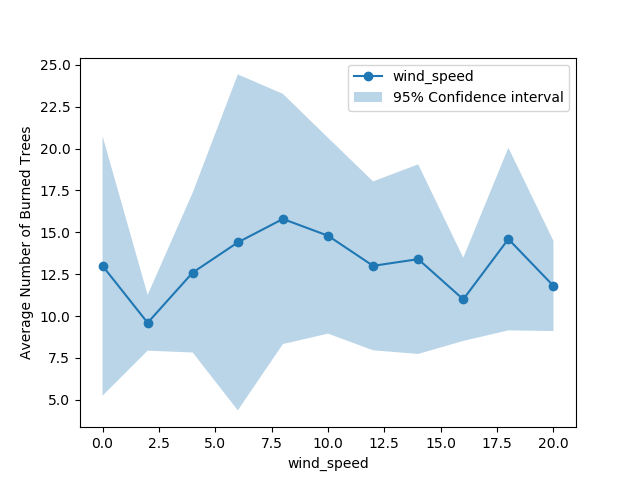
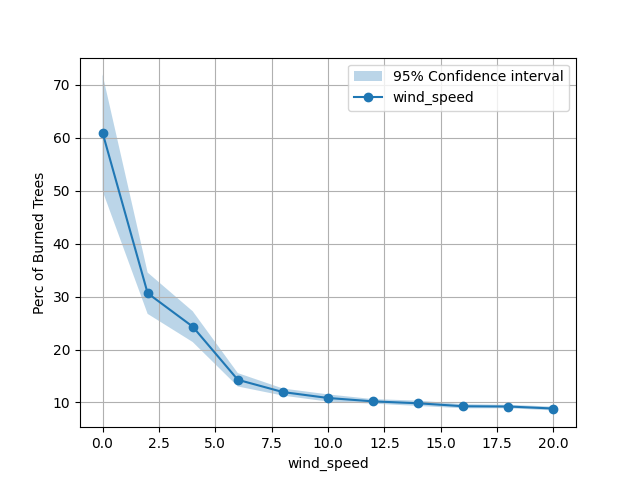
some code cleanup + plots

diff --git a/grid.py b/grid.py
@@ -3,8 +3,8 @@ import random
 import math
 
 class Grid:
+    '''Grid Class - has functions for parameters and probability calculations'''
     def __init__(self, rows, cols, init_params=True):
-        
         self.rows = rows
         self.cols = cols
         self.burned_trees = 0
@@ -12,7 +12,7 @@ class Grid:
         
         # intialize parameters
         if init_params==True:
-            self.params = self.init_params( )
+            self.params = self.init_params()
         
         # auxiliary information grids
         self.trees = self.init_trees()
@@ -26,6 +26,7 @@ class Grid:
     ## PARAMETERS ##
     
     def init_params(self):
+        '''sets default parameters for the grid'''
         params = {}
 
         # Vegetation parameters
@@ -35,13 +36,13 @@ class Grid:
 
         # Wind parameters
         params['wind_enabled'] = True
-        params['wind_speed'] = 10
+        params['wind_speed'] = 5
         params['wind_angle'] = 180
         params['wind_c1'] = 0.045
         params['wind_c2'] = 0.131
         
         # Density parameters
-        params['grid_density'] = 0.4
+        params['grid_density'] = 0.9
         params['density_enabled'] = True
 
         # Altitude parameters
@@ -53,8 +54,8 @@ class Grid:
         params['peak_slope'] = 0.1
         params['alpha'] = 0.078 
         
-        # Probability parameters
-        params['tree_burn_prob'] = 1 # base burn probability
+        # Probability parameters - from the ref paper
+        params['tree_burn_prob'] = 0.58 # base burn probability
         params['prob_delta_tree1'] = -0.3 # probability delta for trees of type 1
         params['prob_delta_tree2'] = 0.4 # p. d. for trees of type 2
         params['prob_delta_dens1'] = -0.3 # p. d. for density type 1
@@ -64,14 +65,15 @@ class Grid:
         return params
     
     def set_params(self, key, value):
+        '''used to change default parameters'''
         self.params[key] = value
         return
 
     ## MAIN GRID FOR SIMULATIONS ##
     
     def init_grid(self):
-        # states: 1- empty; 2- tree; 3- burning; 4- burnt
-        # forest = [[2 for _ in range(self.cols)] for _ in range(self.rows)]
+        '''initializes the grid with default/set density'''
+
         grid_density = self.params['grid_density']
         edge = lambda row,col : row == 0 or col == 0 or row == self.rows-1 or col == self.cols-1
         forest = np.array([[1 if random.random() > grid_density or edge(row,col) else 2 for col in range(self.cols)] for row in range(self.rows)])
@@ -88,6 +90,8 @@ class Grid:
         return forest
     
     def burn_trees(self, x, y, neighbors):
+        '''calculates the probability that a neighboring tree burns and burns it'''
+
         # probability of burning
         p = self.params['tree_burn_prob']
 
@@ -123,6 +127,8 @@ class Grid:
     ## AUXILIARY INFORMATION GRIDS ##
     
     def init_trees(self):
+        '''sets the vegetation type of trees in the grid'''
+        
         rand = self.params['rand']
         
         # two types - 1: agricultural areas and 2: pine trees
@@ -181,6 +187,8 @@ class Grid:
         return tree_matrix
     
     def init_wind(self):
+        '''sets the wind in the grid'''
+
         # simplified burn probability depending on wind
         # Set initial conditions
         
@@ -200,6 +208,8 @@ class Grid:
         return p_w
 
     def init_density(self):
+        '''sets the density of trees'''
+
         # three types - 1: sparse, 2: normal and 3: dense
         density_matrix = [[0 for _ in range(self.cols)] for _ in range(self.rows)]
     
@@ -220,6 +230,8 @@ class Grid:
         return density_matrix
     
     def init_altitude(self):
+        '''sets the overall elevation of the grid'''
+
         alt_matrix = [[0 for _ in range(self.cols)] for _ in range(self.rows)]
 
         max_height = self.params['peak_height']
@@ -258,7 +270,6 @@ class Grid:
         row_offset = abs(x - neighbor_row)
         col_offset = abs(y - neighbor_col)
         return row_offset != 0 and col_offset != 0
-
 
     def calc_slope(self, neighbor, cell, is_diagonal):
         #TODO decide constants

diff --git a/simulate.py b/simulate.py
@@ -3,6 +3,7 @@ import random
 import numpy as np
 
 class WildFireSimulation(Grid):
+    '''class simulating the forest fire'''
     def __init__(self, rows, cols,init_params=True):
         super().__init__(rows,cols,init_params)
         
@@ -12,6 +13,8 @@ class WildFireSimulation(Grid):
         self.lit_tree = False
 
     def update_grid(self):
+        '''use the current grid and use the transition rules, returns updated grid'''
+
         # take current grid as input
         # if the cell is in state 1 (empty) or state 4 (burnt)
         # then the cell will remain in the same state
@@ -27,7 +30,7 @@ class WildFireSimulation(Grid):
         return self.current_forest
     
     def tree_state(self,row,col):
-        
+        '''finds the state of a tree'''
         # edges do not change
         if row == 0 or col == 0 or row == self.rows-1 or col == self.cols-1:
             return 1
@@ -48,6 +51,7 @@ class WildFireSimulation(Grid):
             tree_state = self.burn_trees(row, col, neighbors)
             if tree_state == 3:
                 self.lit_tree = True
+                self.burned_trees += 1
             return tree_state
         
         return tree_state
@@ -83,13 +87,14 @@ class WildFireSimulation(Grid):
         return [d,0]
     
     def get_burnt(self,steps=-1): 
-        # print("percentage_tree_1----", self.params['percentage_tree_1'])
+        '''counts the nuumber of burned trees in the grid'''
         self.run(steps)
         burned = self.burned_trees
         self.reset()
         return burned
 
     def run(self,steps=-1):
+        '''updates the grid for number of steps'''
         step = 0
         while steps==-1 or step < steps:
             self.update_grid()
@@ -98,4 +103,5 @@ class WildFireSimulation(Grid):
             step += 1
     
     def reset(self):
+        '''set the grid to default'''
         self.__init__(self.rows,self.cols,init_params=False)

diff --git a/make_plots.py b/make_plots.py
@@ -8,11 +8,12 @@ import pandas as pd
 import time
 
 class MakePlots:
-
+    '''class to make plots with changing parameters'''
     def __init__(self, simulation):
         self.simulation = simulation
 
     def sensitivity_analysis(self, sim, parameter, values, n_simulations):
+        '''find burned trees for paramter values in given range'''
         results = []
         start_time = time.time()
         for i in range(0, len(values)):
@@ -48,13 +49,14 @@ class MakePlots:
         plt.figure()
         plt.fill_between(values, lower_ci, upper_ci, alpha=0.3, label='95% Confidence interval')
         plt.plot(values, means, 'o-', label=parameter)
-        plt.errorbar(values, means, yerr=[means - lower_ci, upper_ci - means], marker='o', linestyle='', label=parameter)
+        # plt.errorbar(values, means, yerr=[means - lower_ci, upper_ci - means], marker='o', linestyle='', label=parameter)
         plt.xlabel(parameter)
-        plt.ylabel('Average Number of Burned Trees')
+        plt.ylabel('Burned Trees')
+        plt.grid()
         plt.legend()
 
         # Saving in 'plots' folder
-        filename = f'{parameter}_sensitivity.png'
+        filename = f'{parameter}_sensitivity_00.png'
         filepath = os.path.join('plots', filename)
         plt.savefig(filepath)
         plt.show()

diff --git a/main.py b/main.py
@@ -1,4 +1,5 @@
 from simulate import WildFireSimulation
+from make_plots import MakePlots
 from visualize import Visualize
 import os
 import matplotlib.pyplot as plt
@@ -19,13 +20,13 @@ if __name__=="__main__":
         os.makedirs('data')
     
     # # INITIALIZE SIMULATION:
-    # rows = 100
-    # cols = 100
-    # n_simulations=2
+    rows = 100
+    cols = 100
+    n_simulations = 100
     
     # datapoints = 20
     
-    # sim = WildFireSimulation(rows, cols)
+    sim = WildFireSimulation(rows, cols)
     
     # d = np.linspace(0.1,1,datapoints)
     # c = np.zeros((datapoints,n_simulations))
@@ -37,5 +38,13 @@ if __name__=="__main__":
     #     print(i)
     # plt.scatter(d,c.mean(axis=1))
 
+    # plotter = MakePlots(sim)
+    # parameters = ['percentage_tree_1', 'wind_speed']
+    # values = [[0, 10, 20, 30, 40, 50, 60, 70, 80, 90, 100],
+    #          [0, 2, 4, 6, 8, 10, 12, 14, 16, 18, 20]]
+    # for i, parameter in enumerate(parameters):
+    #     # print(parameter, "-----", values[i])
+    #     plotter.sensitivity_analysis(sim, parameter, values[i], n_simulations)
+
     visualizer = Visualize('Fire_data_n100.xlsx')
-    visualizer.scaling_behavior()
+    visualizer.animate(sim, steps=200)
